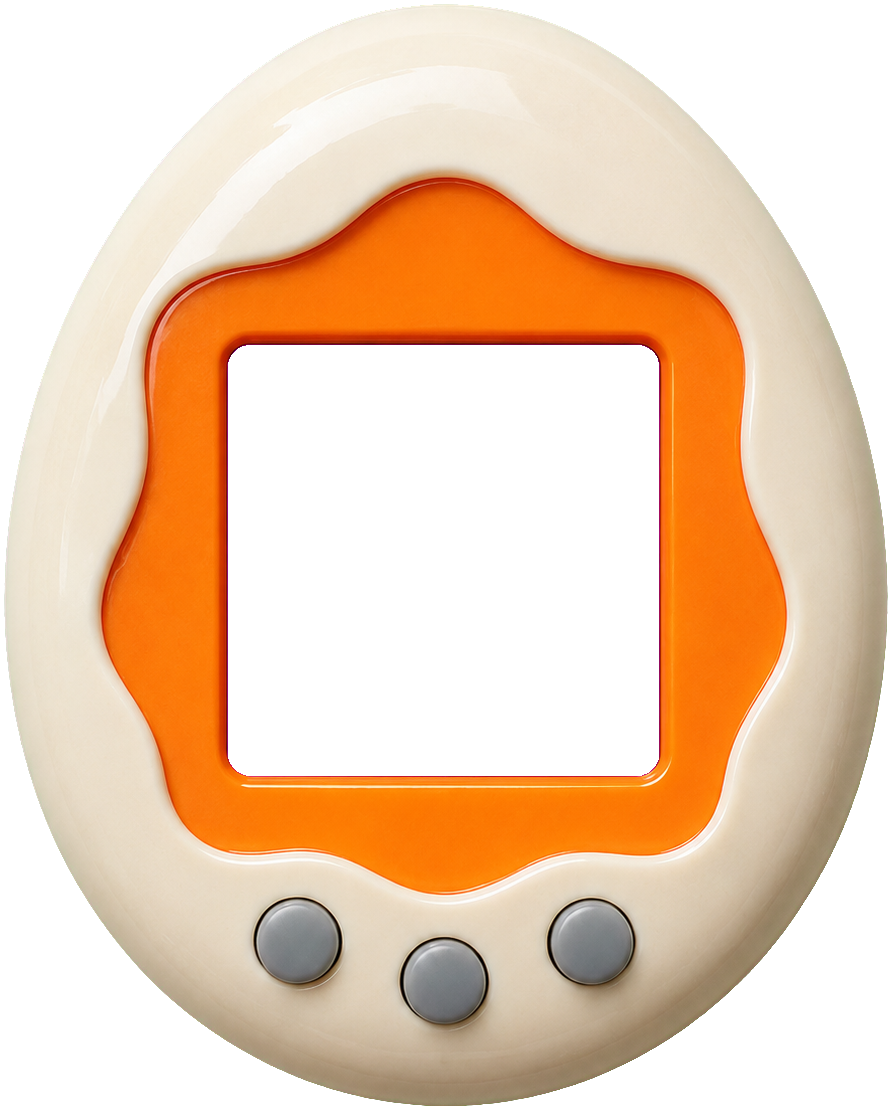
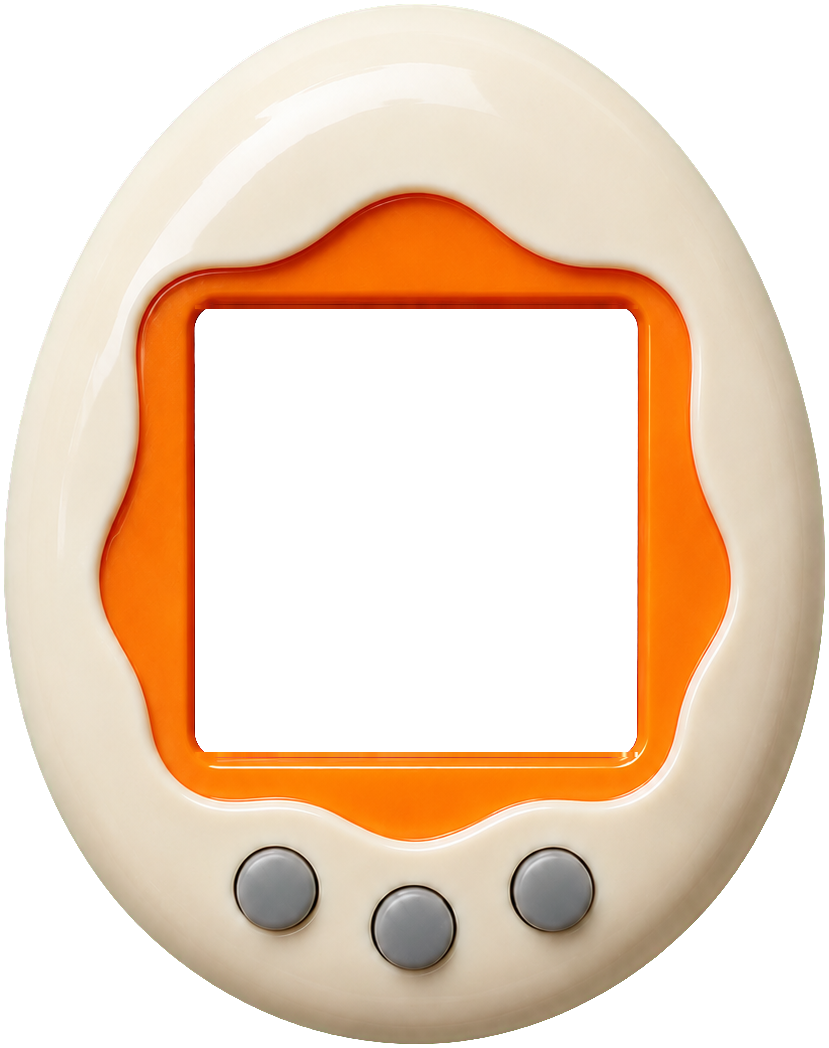
Фикс скина корпуса

diff --git a/src/skin.js b/src/skin.js
@@ -46,17 +46,19 @@
     cream: {
       name: 'кремовый',
       image: 'resources/img/skins/shell_cream.png',
-      w: 892, h: 1110,
+      w: 829, h: 1048,
       offsetY: 0.5,
-      screen:  { x: 0.25561, y: 0.31081, w: 0.48318, h: 0.38829 },
-      radius:  0.028,                      // скругление углов экрана, доля от его ширины
+      /* вырез на единицу шире настоящего с каждой стороны: так он гарантированно
+         накрывает полупрозрачную кромку, и мимо не просвечивает фон */
+      screen:  { x: 0.23402, y: 0.29389, w: 0.53679, h: 0.42462 },
+      radius:  0.030,                      // скругление углов экрана, доля от его ширины
       /* тень нарисована заранее, tools/makeshadow.py; pad — поле вокруг корпуса
          на картинке тени, доля от ширины корпуса */
-      shadow:  { image: 'resources/img/skins/shadow_cream.png', pad: 0.19955 },
+      shadow:  { image: 'resources/img/skins/shadow_cream.png', pad: 0.20024 },
       buttons: [
-        { x: 0.26677, y: 0.79555, w: 0.13238, h: 0.09989 },   // левая
-        { x: 0.43294, y: 0.83178, w: 0.13076, h: 0.09859 },   // средняя
-        { x: 0.59749, y: 0.79665, w: 0.13238, h: 0.09859 },   // правая
+        { x: 0.26519, y: 0.79395, w: 0.13549, h: 0.10580 },   // левая
+        { x: 0.43165, y: 0.83158, w: 0.13549, h: 0.10305 },   // средняя
+        { x: 0.59932, y: 0.79649, w: 0.13549, h: 0.10168 },   // правая
       ],
       light: 'left-top',                   // откуда свет: по нему строим тень и блик
     },

diff --git a/src/Version.js b/src/Version.js
@@ -1,1 +1,1 @@
-VERSION = '1.13.7.2';
+VERSION = '1.13.7.3';

diff --git a/tools/skinprep.py b/tools/skinprep.py
@@ -114,6 +114,86 @@ def find_screen(img):
     return mask, (x0, y0, x1 + 1, y1 + 1)
 
 
+def cut_screen(img):
+    """Вырезает пурпурный экран — так же мягко, как зелёный фон вокруг корпуса.
+
+    По краю выреза пурпур смешан с пластиком. Если рубить порогом, вокруг
+    игрового экрана остаётся розовая кайма в пару точек шириной — на телефоне
+    она хорошо заметна. Поэтому край делаем плавным, а пурпур из оставшихся
+    полупрозрачных пикселей вычитаем: зелёный канал поднимаем до уровня
+    соседних, и вместо розового получается нейтральная тень бортика.
+    """
+    a = np.asarray(img).astype(np.float32)
+    r, g, b = a[:, :, 0], a[:, :, 1], a[:, :, 2]
+    mag = np.minimum(r, b) - g               # насколько пиксель «пурпурнее» всего прочего
+
+    LO, HI = 10.0, 90.0
+    t = np.clip((mag - LO) / (HI - LO), 0, 1)     # 1 — чистый экран, 0 — чистый пластик
+    alpha = a[:, :, 3] * (1.0 - t)
+
+    keep = alpha > 0
+    fix = keep & (mag > 0)                       # despill: гасим пурпур в остатке
+    g2 = np.where(fix, np.minimum(r, b), g)
+
+    out = np.zeros(a.shape, dtype=np.uint8)
+    out[:, :, 0] = np.where(keep, r, 0).astype(np.uint8)
+    out[:, :, 1] = np.where(keep, g2, 0).astype(np.uint8)
+    out[:, :, 2] = np.where(keep, b, 0).astype(np.uint8)
+    out[:, :, 3] = np.clip(alpha, 0, 255).astype(np.uint8)
+    return Image.fromarray(out, 'RGBA')
+
+
+def hole_box(img):
+    """Прямоугольник выреза экрана: прозрачное пятно, не касающееся краёв кадра."""
+    from scipy import ndimage
+    a = np.asarray(img)[:, :, 3]
+    H, W = a.shape
+    lbl, n = ndimage.label(a < 128)
+    best = None
+    for i in range(1, n + 1):
+        ys, xs = np.where(lbl == i)
+        if xs.min() == 0 or ys.min() == 0 or xs.max() == W - 1 or ys.max() == H - 1:
+            continue                                # это фон вокруг корпуса
+        if best is None or len(ys) > best[0]:
+            best = (len(ys), xs.min(), ys.min(), xs.max() + 1, ys.max() + 1)
+    if best is None:
+        raise SystemExit('Вырез экрана не нашёлся.')
+    return best[1:]
+
+
+def square_hole(img):
+    """Делает вырез экрана строго квадратным.
+
+    Игровой экран квадратный. Если вырез чуть выше, чем шире (у нарисованных
+    корпусов так почти всегда), лишние точки остаются чёрной полосой внутри
+    экрана — выглядит как брак. Поэтому лишнее по длинной стороне закрываем,
+    протягивая внутрь пиксели бортика, что стоят сразу за вырезом: бортик
+    становится на пару точек толще, и этого никто не замечает.
+    """
+    x0, y0, x1, y1 = hole_box(img)
+    w, h = x1 - x0, y1 - y0
+    if w == h:
+        return img, (x0, y0, x1, y1), 0
+    a = np.asarray(img).copy()
+    d = abs(h - w)
+    lo, hi = d // 2, d - d // 2
+    if h > w:
+        src_top, src_bot = a[max(0, y0 - 2), x0:x1], a[min(a.shape[0] - 1, y1 + 1), x0:x1]
+        for k in range(lo):
+            a[y0 + k, x0:x1] = src_top
+        for k in range(hi):
+            a[y1 - 1 - k, x0:x1] = src_bot
+        box = (x0, y0 + lo, x1, y1 - hi)
+    else:
+        src_l, src_r = a[y0:y1, max(0, x0 - 2)], a[y0:y1, min(a.shape[1] - 1, x1 + 1)]
+        for k in range(lo):
+            a[y0:y1, x0 + k] = src_l
+        for k in range(hi):
+            a[y0:y1, x1 - 1 - k] = src_r
+        box = (x0 + lo, y0, x1 - hi, y1)
+    return Image.fromarray(a, 'RGBA'), box, d
+
+
 def main():
     if len(sys.argv) < 3:
         raise SystemExit('Как запускать: python3 tools/skinprep.py вход.png выход.png [--ar 0.46]')
@@ -138,15 +218,20 @@ def main():
     W, H = img.size
     mask, (x0, y0, x1, y1) = find_screen(img)
 
-    # пурпур — в прозрачность; края слегка размываем, чтобы не было зубцов
-    a = np.asarray(img).copy()
-    a[:, :, 3] = np.where(mask, 0, a[:, :, 3])
-    # цвет под прозрачным делаем нейтральным, иначе по краю лезет пурпурная кайма
-    a[:, :, 0] = np.where(mask, 0, a[:, :, 0])
-    a[:, :, 1] = np.where(mask, 0, a[:, :, 1])
-    a[:, :, 2] = np.where(mask, 0, a[:, :, 2])
-    out = Image.fromarray(a, 'RGBA')
+    out = cut_screen(img)
+    out, (x0, y0, x1, y1), d = square_hole(out)
+    if d:
+        print('вырез выровняли до квадрата: убрали %d точек по длинной стороне' % d)
     out.save(dst)
+
+    # проверяем себя: розовой каймы вокруг выреза остаться не должно
+    chk = np.asarray(out).astype(np.int16)
+    ring = np.zeros(chk.shape[:2], dtype=bool)
+    ring[max(0, y0 - 3): y1 + 3, max(0, x0 - 3): x1 + 3] = True
+    ring &= chk[:, :, 3] > 16
+    if ring.any():
+        m = (np.minimum(chk[:, :, 0], chk[:, :, 2]) - chk[:, :, 1])[ring]
+        print('розовая кайма вокруг выреза: максимум %d из 255 (норма — до 12)' % max(0, int(m.max())))
 
     skin = {
         'image': dst.split('resources/')[-1] if 'resources/' in dst else dst,
